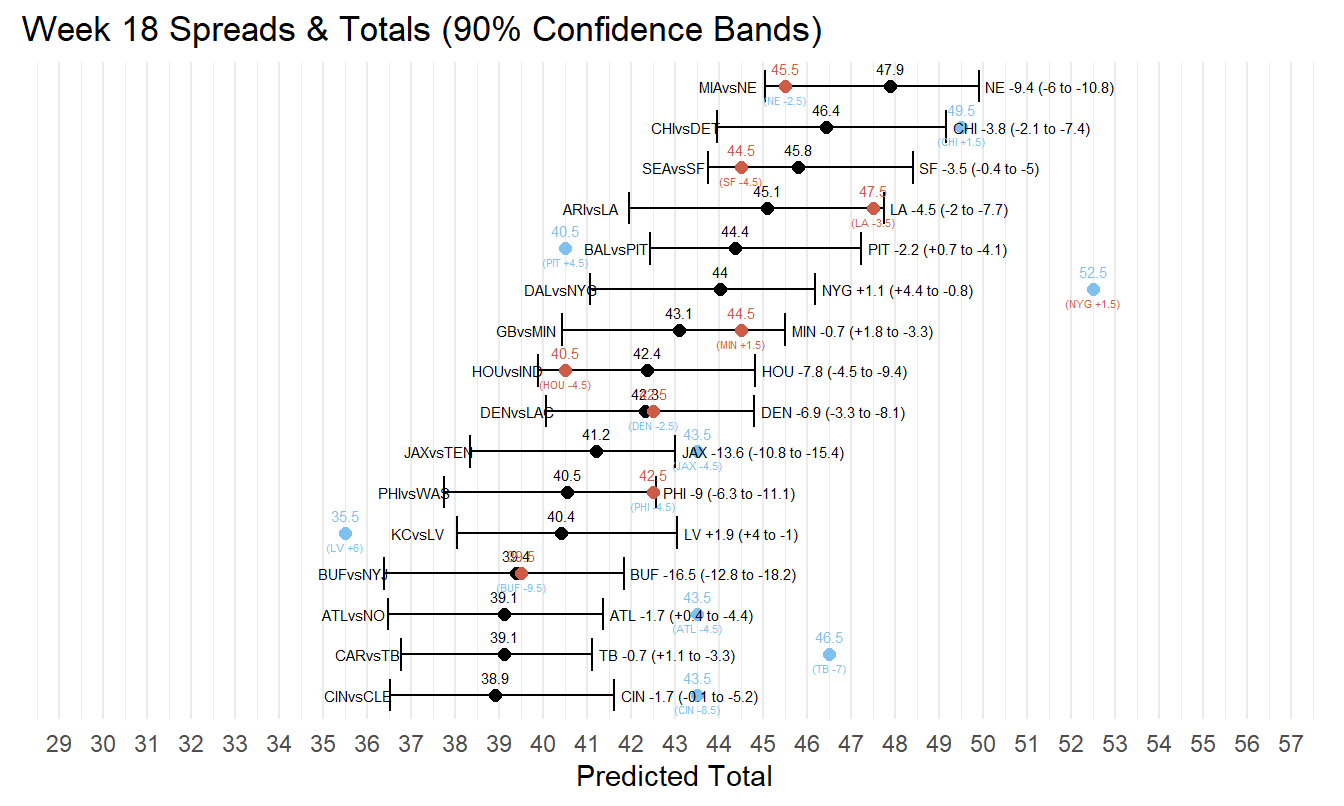
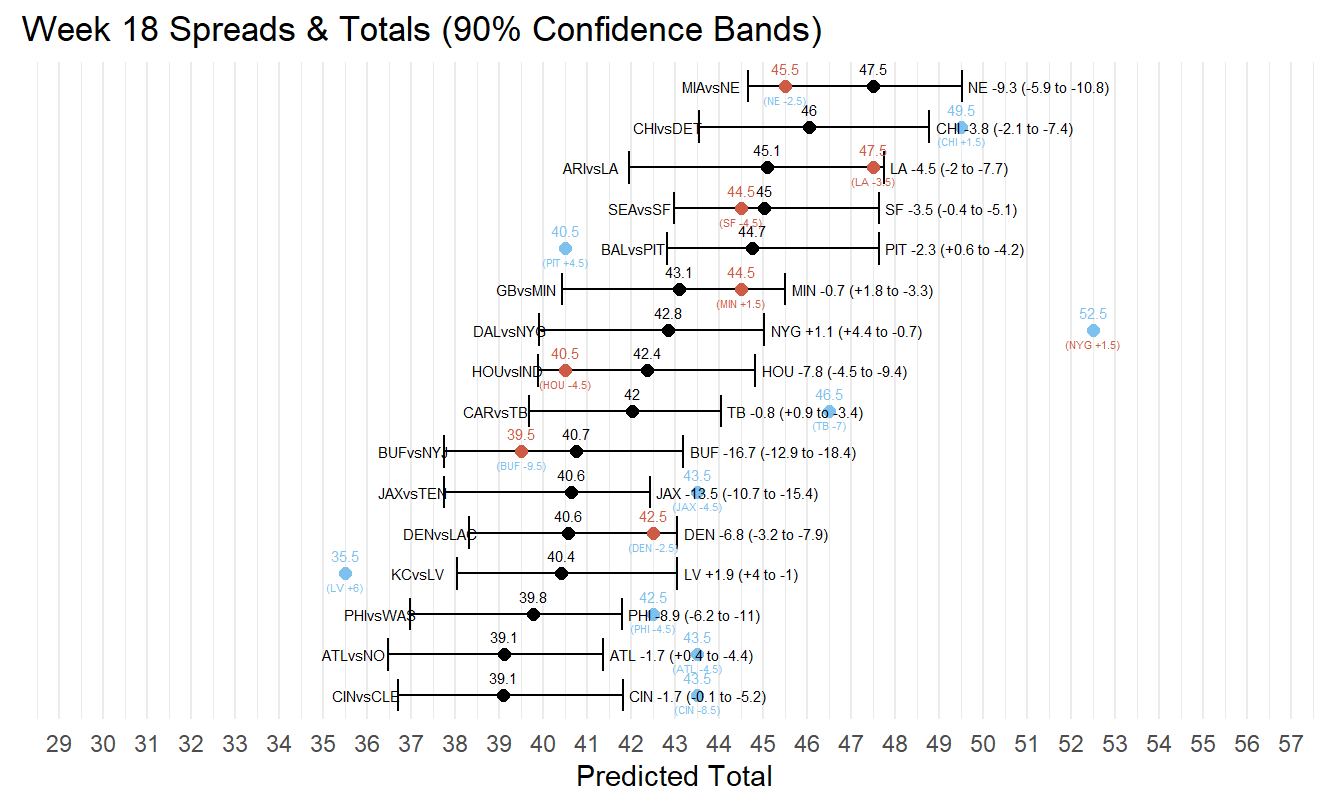
update friday week 18

diff --git a/docs/mods.html b/docs/mods.html
@@ -127,7 +127,7 @@ Note
 </div>
 </div>
 <div class="callout-body-container callout-body">
-<p>Updated as of Tuesday, December 30, 2025 at 1:41:26 PM</p>
+<p>Updated as of Friday, January 02, 2026 at 9:11:56 AM</p>
 </div>
 </div>
 <section id="my-model-vs-vegas-based-on-opening-bet-lines" class="level2">
@@ -610,21 +610,12 @@ Note
 </thead>
 <tbody class="gt_table_body">
 <tr class="odd">
-<td class="gt_row gt_left" headers="game">CAR @ TB</td>
-<td class="gt_row gt_left" headers="total_line_label">46.5</td>
-<td class="gt_row gt_left" headers="total_mod_label">39.1</td>
-<td class="gt_row gt_left" headers="bet_total">Under 43.5</td>
-<td class="gt_row gt_left" headers="spread_line_label">TB -7</td>
-<td class="gt_row gt_left" headers="spread_mod_label">TB -0.7</td>
-<td class="gt_row gt_left" headers="bet_spread">NA</td>
-</tr>
-<tr class="even">
 <td class="gt_row gt_left" headers="game">BAL @ PIT</td>
 <td class="gt_row gt_left" headers="total_line_label">40.5</td>
-<td class="gt_row gt_left" headers="total_mod_label">44.4</td>
-<td class="gt_row gt_left" headers="bet_total">Over 41.5</td>
+<td class="gt_row gt_left" headers="total_mod_label">44.7</td>
+<td class="gt_row gt_left" headers="bet_total">Over 40.5</td>
 <td class="gt_row gt_left" headers="spread_line_label">PIT +4.5</td>
-<td class="gt_row gt_left" headers="spread_mod_label">PIT -2.2</td>
+<td class="gt_row gt_left" headers="spread_mod_label">PIT -2.3</td>
 <td class="gt_row gt_left" headers="bet_spread">PIT +3.5</td>
 </tr>
 </tbody>
@@ -1102,9 +1093,9 @@ Note
 </tr>
 <tr class="even">
 <td class="gt_row gt_left" headers="game">BAL @ PIT</td>
-<td class="gt_row gt_left" headers="team_ml_hit_label">PIT +160</td>
+<td class="gt_row gt_left" headers="team_ml_hit_label">PIT +154</td>
 <td class="gt_row gt_left" headers="win_prob_model_label">56.4%</td>
-<td class="gt_row gt_left" headers="win_prob_vegas_label">36.9%</td>
+<td class="gt_row gt_left" headers="win_prob_vegas_label">37.8%</td>
 </tr>
 </tbody>
 </table>
@@ -3319,35 +3310,35 @@ Note
 </thead>
 <tbody class="gt_table_body">
 <tr class="odd">
-<td class="gt_row gt_left" headers="game">CAR @ TB</td>
-<td class="gt_row gt_left" headers="total_line_current_label">43.5</td>
-<td class="gt_row gt_left" headers="total_mod_label">39.1</td>
-<td class="gt_row gt_left" headers="side_current_total">Under</td>
-<td class="gt_row gt_left" headers="stake_current_total">1.12</td>
-<td class="gt_row gt_left" headers="spread_line_current_label">(TB -2.5)</td>
-<td class="gt_row gt_left" headers="spread_mod_label">TB -0.7</td>
-<td class="gt_row gt_left" headers="side_current_spread">Away</td>
-<td class="gt_row gt_left" headers="stake_current_spread">1.01</td>
-</tr>
-<tr class="even">
 <td class="gt_row gt_left" headers="game">MIA @ NE</td>
 <td class="gt_row gt_left" headers="total_line_current_label">45.5</td>
-<td class="gt_row gt_left" headers="total_mod_label">47.9</td>
+<td class="gt_row gt_left" headers="total_mod_label">47.5</td>
 <td class="gt_row gt_left" headers="side_current_total">Over</td>
-<td class="gt_row gt_left" headers="stake_current_total">1.06</td>
+<td class="gt_row gt_left" headers="stake_current_total">1.12</td>
 <td class="gt_row gt_left" headers="spread_line_current_label">(NE -10.5)</td>
-<td class="gt_row gt_left" headers="spread_mod_label">NE -9.4</td>
+<td class="gt_row gt_left" headers="spread_mod_label">NE -9.3</td>
 <td class="gt_row gt_left" headers="side_current_spread">Home</td>
 <td class="gt_row gt_left" headers="stake_current_spread">1.05</td>
 </tr>
-<tr class="odd">
+<tr class="even">
 <td class="gt_row gt_left" headers="game">BAL @ PIT</td>
-<td class="gt_row gt_left" headers="total_line_current_label">41.5</td>
-<td class="gt_row gt_left" headers="total_mod_label">44.4</td>
+<td class="gt_row gt_left" headers="total_line_current_label">40.5</td>
+<td class="gt_row gt_left" headers="total_mod_label">44.7</td>
 <td class="gt_row gt_left" headers="side_current_total">NA</td>
-<td class="gt_row gt_left" headers="stake_current_total">0.06</td>
+<td class="gt_row gt_left" headers="stake_current_total">0.22</td>
 <td class="gt_row gt_left" headers="spread_line_current_label">(PIT +3.5)</td>
-<td class="gt_row gt_left" headers="spread_mod_label">PIT -2.2</td>
+<td class="gt_row gt_left" headers="spread_mod_label">PIT -2.3</td>
+<td class="gt_row gt_left" headers="side_current_spread">Away</td>
+<td class="gt_row gt_left" headers="stake_current_spread">0.63</td>
+</tr>
+<tr class="odd">
+<td class="gt_row gt_left" headers="game">CAR @ TB</td>
+<td class="gt_row gt_left" headers="total_line_current_label">43.5</td>
+<td class="gt_row gt_left" headers="total_mod_label">42.0</td>
+<td class="gt_row gt_left" headers="side_current_total">NA</td>
+<td class="gt_row gt_left" headers="stake_current_total">0.02</td>
+<td class="gt_row gt_left" headers="spread_line_current_label">(TB -3)</td>
+<td class="gt_row gt_left" headers="spread_mod_label">TB -0.8</td>
 <td class="gt_row gt_left" headers="side_current_spread">Away</td>
 <td class="gt_row gt_left" headers="stake_current_spread">0.62</td>
 </tr>
